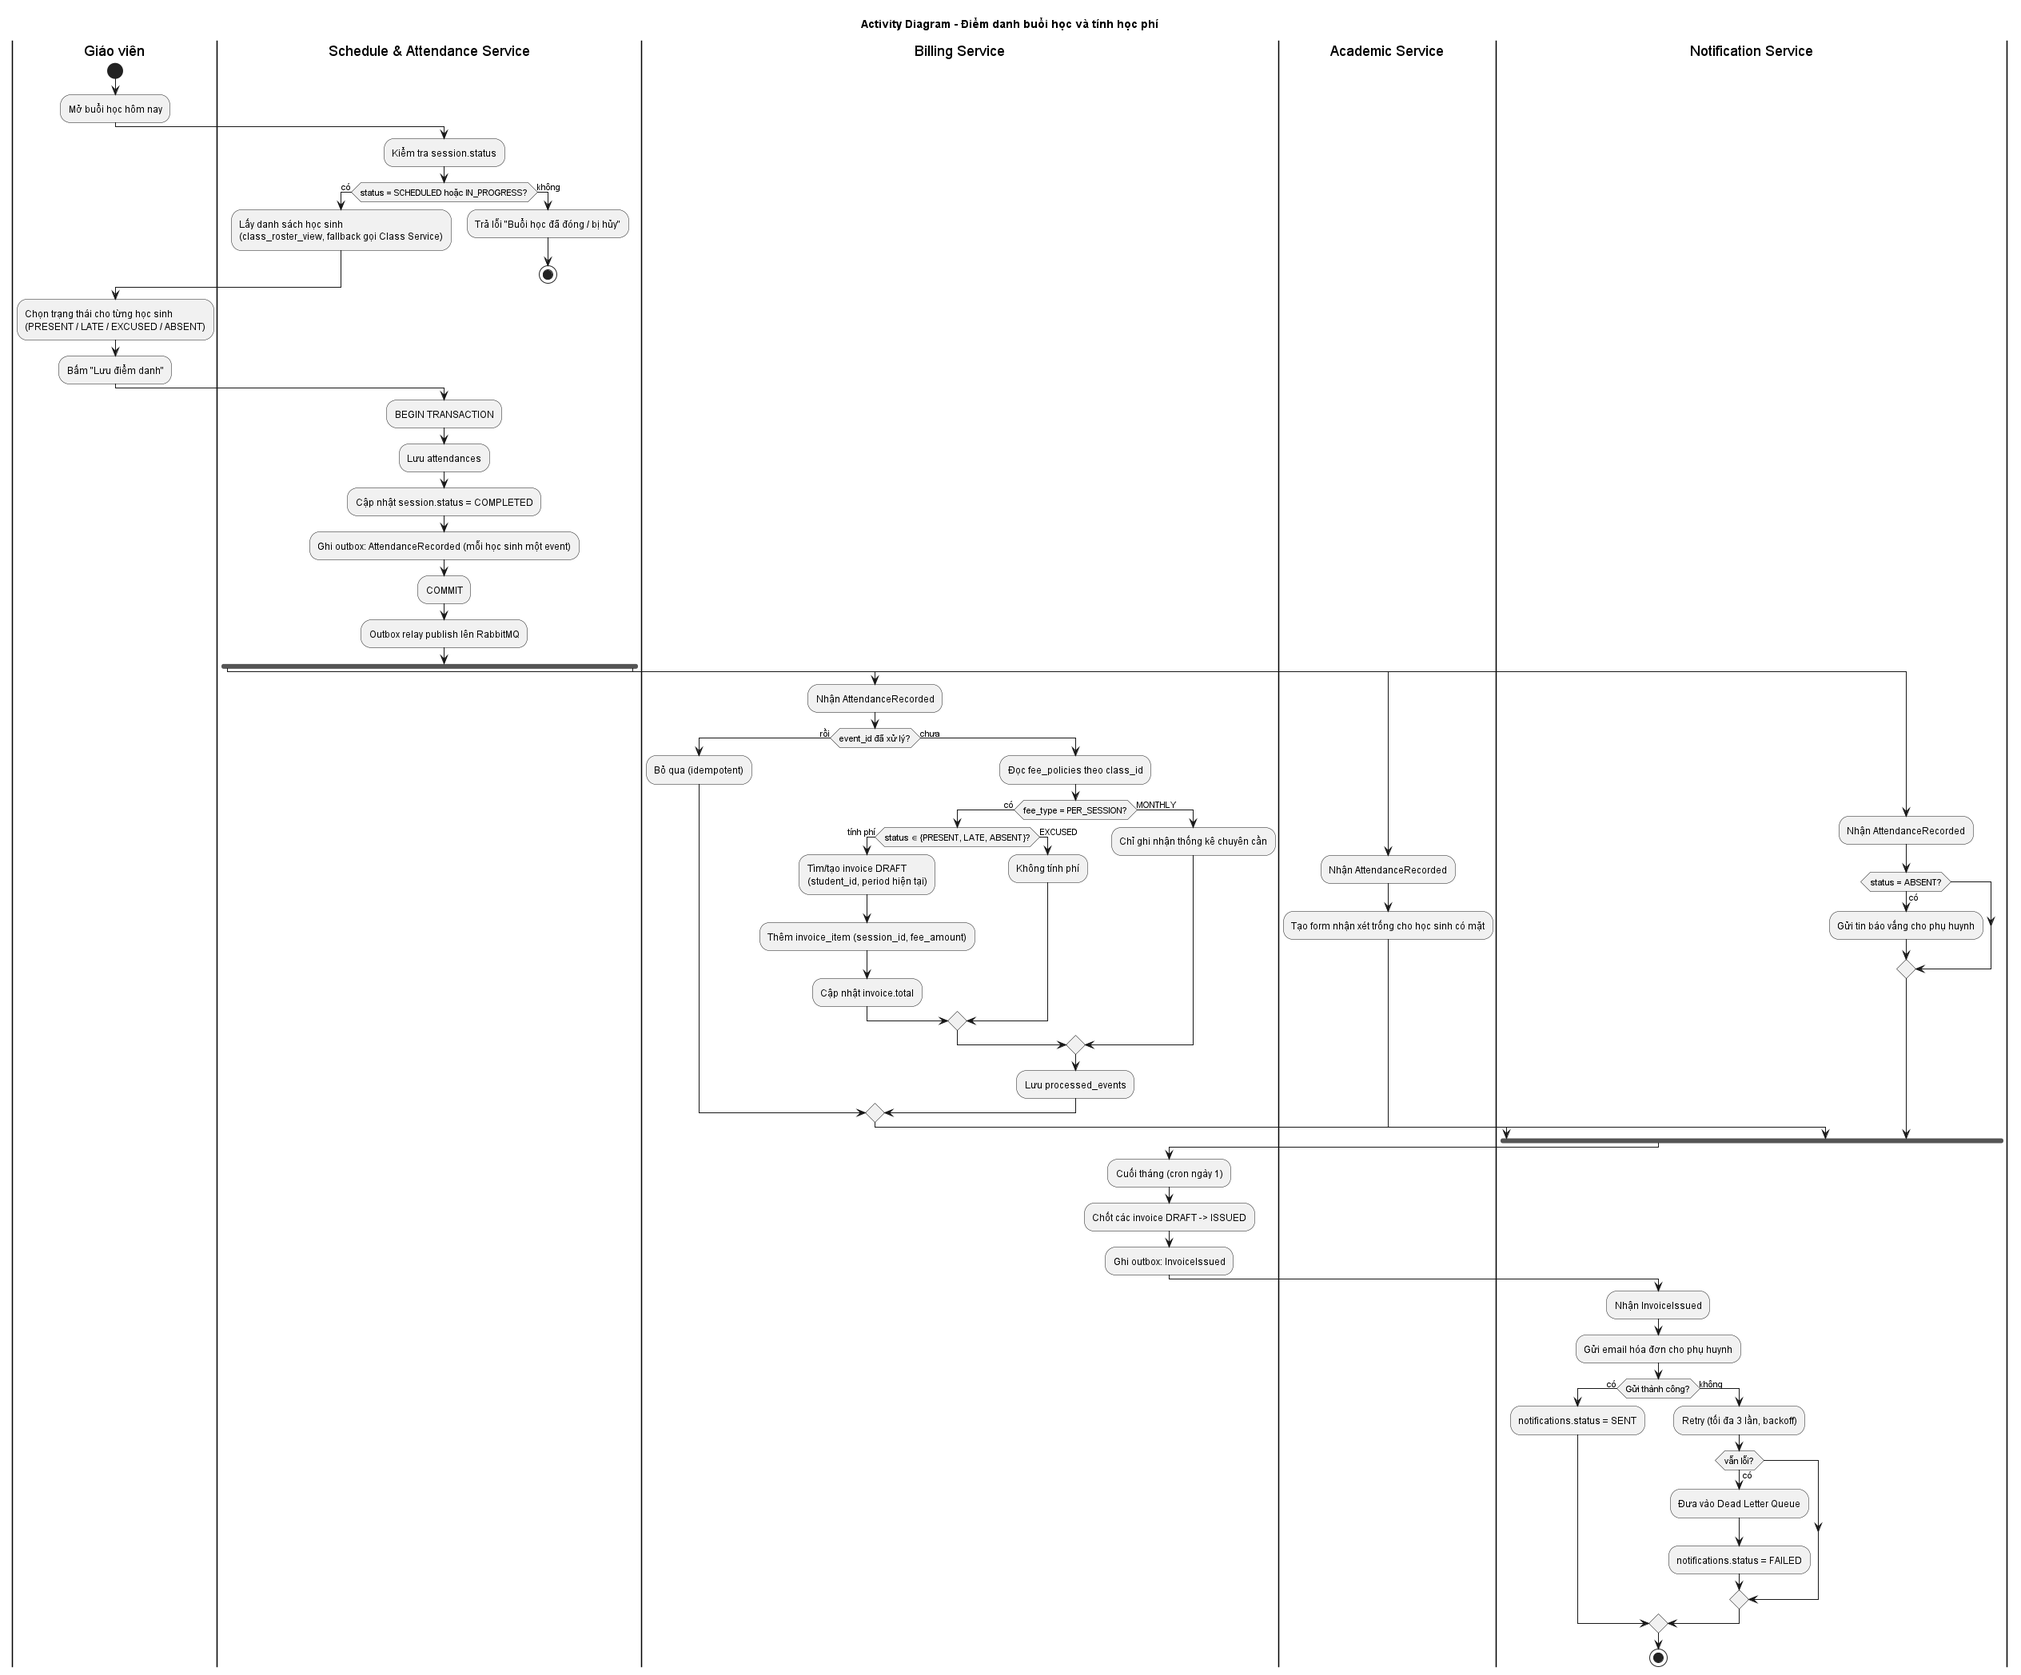
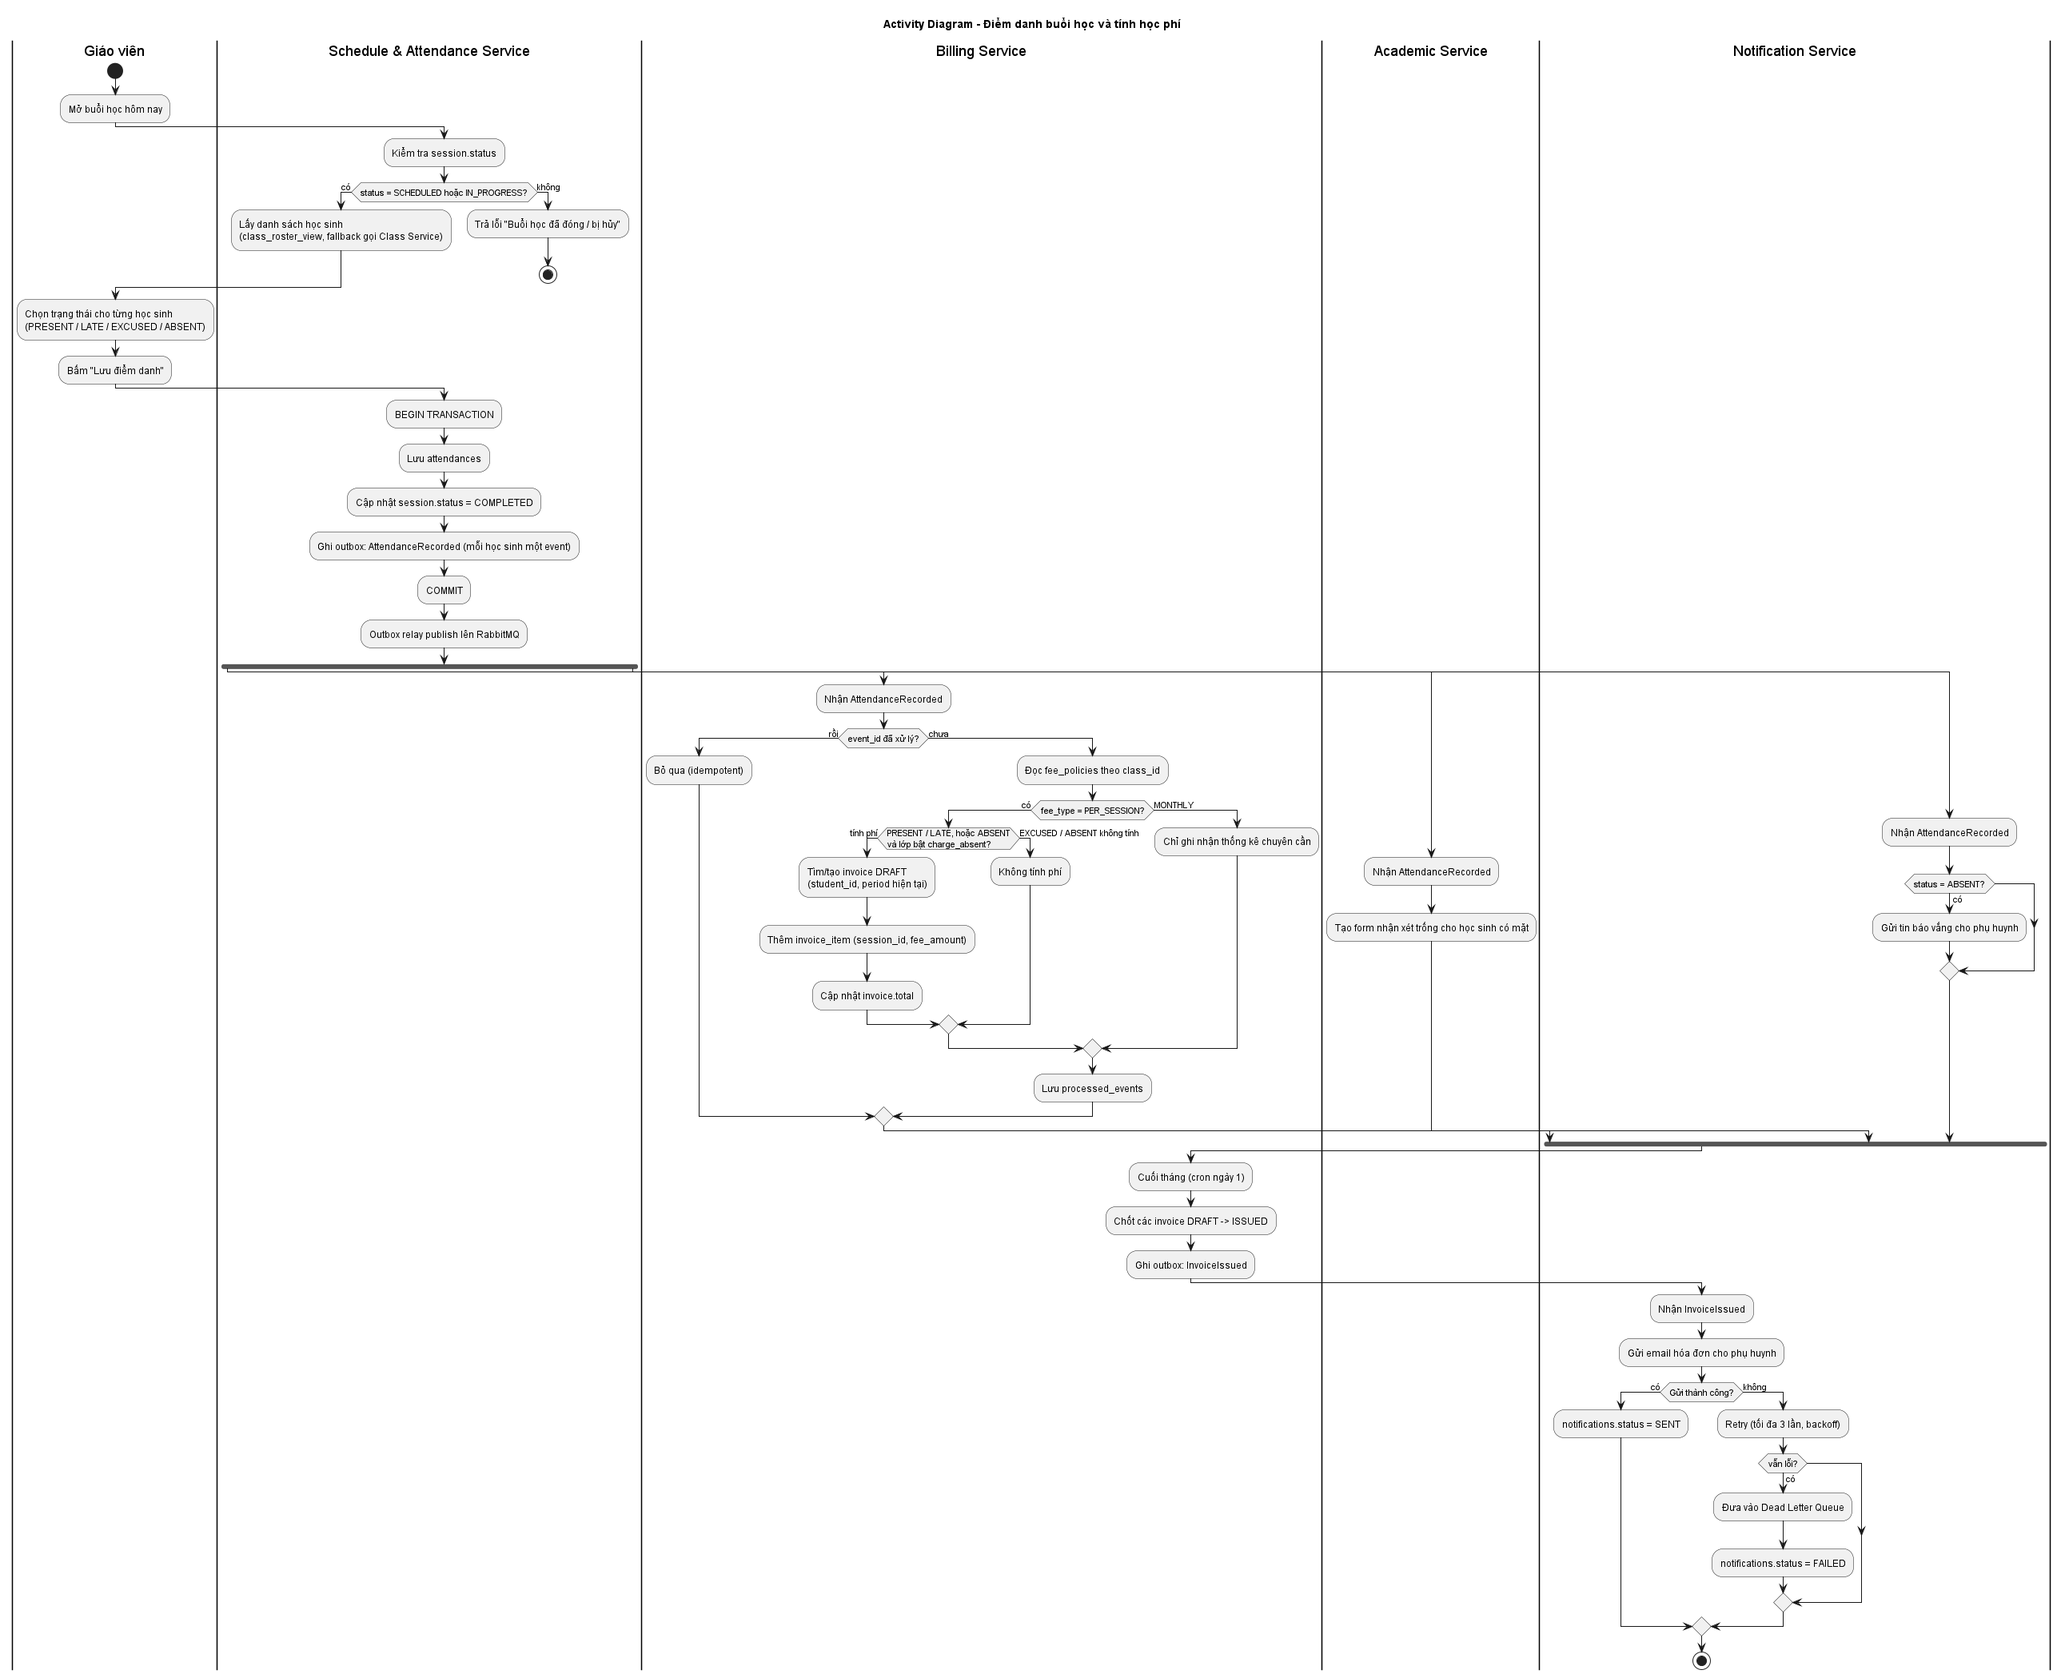
Checkpoint: sync diagrams and service docs with domain decisions
Update ERD, enrollment Saga, state, activity and attendance-billing
diagrams for AWAITING_PAYMENT, Enrollment invoices, Adjustments,
Reversals, per-class absent fees and EnrollmentConfirmed. Billing keeps
a local session_calendar copy for proration, and Schedule publishes
SessionRescheduled. Update service docs, event catalog and glossary.

diff --git a/docs/02-cac-service.md b/docs/02-cac-service.md
@@ -69,7 +69,7 @@
 | POST | `/auth/invitations/{token}/accept` | Kích hoạt tài khoản từ lời mời | Public |
 | POST | `/auth/forgot-password`, `/auth/reset-password` | Quên mật khẩu | Public |
 | GET | `/users/me` | Thông tin người đang đăng nhập | Đã đăng nhập |
-| GET/PATCH | `/users/{id}` | Quản lý người dùng | ADMIN |
+| GET/PATCH | `/users/{id}` | Quản lý người dùng; vô hiệu hóa giáo viên (`DISABLED`) chỉ khi không còn lớp mở (BR-CL-08) | ADMIN |
 | GET | `/.well-known/jwks.json` | Public key để kiểm tra JWT | Nội bộ |
 
 **Phát event:** `UserRegistered`, `InvitationCreated`
@@ -79,7 +79,7 @@
 
 ## 4. Student Service
 
-**Dữ liệu:** `students`, `parents`, `outbox_events`
+**Dữ liệu:** `students`, `parents`, `student_parents` (nhiều phụ huynh, đúng 1 phụ huynh chính), `outbox_events`
 
 | Method | Endpoint | Mô tả | Quyền |
 |---|---|---|---|
@@ -109,13 +109,20 @@
 | PATCH | `/classes/{id}` | Sửa lớp, đổi học phí (áp dụng kỳ sau) | TUTOR, ADMIN |
 | POST | `/classes/{id}/close` | Đóng lớp | TUTOR, ADMIN |
 | GET | `/classes/{id}/students` | Danh sách học sinh đang học | TUTOR; nội bộ |
-| POST | `/classes/{id}/enrollments` | Ghi danh học sinh | TUTOR, ADMIN |
+| POST | `/classes/{id}/enrollments` | Ghi danh học sinh. Trả `201` với `status = ACTIVE` (lớp `PER_SESSION`) hoặc `AWAITING_PAYMENT` (lớp `MONTHLY`); trả `202` với `PENDING` khi Student Service không phản hồi | TUTOR, ADMIN |
 | PATCH | `/classes/{id}/enrollments/{eid}` | Tạm dừng / rút khỏi lớp | TUTOR, ADMIN |
 | GET | `/students/{studentId}/classes` | Các lớp của một học sinh | TUTOR, PARENT, STUDENT |
 
+**Ghi danh lớp `MONTHLY`** ([sơ đồ Saga](diagrams/07-sequence-enrollment-saga.puml)):
+- Ghi danh tạo ở trạng thái `AWAITING_PAYMENT` với `payment_deadline = now + 7 ngày` (BR-CL-07). Học sinh vẫn được vào roster và đi học trong thời gian này.
+- `PENDING`, `AWAITING_PAYMENT` và `ACTIVE` đều tính vào sĩ số khi kiểm tra `max_students` (BR-CL-06).
+- Khi nhận `PaymentReceived` với `invoiceKind = ENROLLMENT` và `invoiceStatus = PAID`, ghi danh chuyển `ACTIVE`.
+- Hết hạn mà chưa thanh toán thì chuyển `WITHDRAWN` với `withdraw_reason = UNPAID` và phát `StudentWithdrawn`.
+
 **Phát event:** `ClassCreated`, `ClassUpdated`, `ClassClosed`, `StudentEnrolled`, `StudentWithdrawn`
-**Nhận event:** `StudentStatusChanged` (tạm dừng hoặc rút ghi danh), `EnrollmentConfirmed`, `EnrollmentSyncFailed` (giao dịch bù trừ)
+**Nhận event:** `StudentStatusChanged` (tạm dừng hoặc rút ghi danh), `EnrollmentConfirmed` (ghi `roster_confirmed_at`), `EnrollmentSyncFailed` (giao dịch bù trừ), `PaymentReceived` (kích hoạt ghi danh `AWAITING_PAYMENT`)
 **Gọi đồng bộ:** student-service
+**Tác vụ định kỳ:** hằng ngày chuyển các ghi danh `AWAITING_PAYMENT` quá `payment_deadline` sang `WITHDRAWN`; đối soát các ghi danh `PENDING`
 
 ---
 
@@ -137,7 +144,7 @@
 | GET | `/students/{id}/attendance?month=` | Lịch sử chuyên cần | TUTOR, PARENT, STUDENT |
 | GET | `/calendar/{token}.ics` | Lịch dạng iCal để đồng bộ Google / Apple Calendar | Token riêng |
 
-**Phát event:** `SessionScheduled`, `SessionCancelled`, `AttendanceRecorded`, `AttendanceCorrected`, `EnrollmentConfirmed`
+**Phát event:** `SessionScheduled`, `SessionCancelled`, `SessionRescheduled` (dời buổi: thay cho cặp hủy + tạo mới), `AttendanceRecorded`, `AttendanceCorrected`, `EnrollmentConfirmed`
 **Nhận event:** `StudentEnrolled`, `StudentWithdrawn`, `ClassClosed`
 **Gọi đồng bộ:** class-service (khi chưa có roster trong `class_roster_view`)
 **Tác vụ định kỳ:** mỗi giờ quét các buổi quá hạn và chuyển sang `MISSED`; mỗi tuần sinh thêm buổi cho lịch lặp
@@ -164,21 +171,31 @@
 
 ## 8. Billing Service
 
-**Dữ liệu:** `fee_policies`, `invoices`, `invoice_items`, `payments`, `processed_events`, `outbox_events`
+**Dữ liệu:** `fee_policies`, `session_calendar`, `invoices`, `invoice_items`, `payments`, `processed_events`, `outbox_events`
+
+`session_calendar` là bản sao cục bộ các buổi học (từ `SessionScheduled` / `SessionCancelled` / `SessionRescheduled`). Billing dùng nó để tính phí `MONTHLY` theo tỉ lệ số buổi khi vào / rời lớp giữa tháng (BR-BI-05, BR-BI-06), không gọi đồng bộ sang Schedule.
 
 | Method | Endpoint | Mô tả | Quyền |
 |---|---|---|---|
-| GET | `/billing/invoices?period=&status=` | Danh sách hóa đơn | TUTOR, ADMIN |
-| GET | `/billing/invoices/{id}` | Chi tiết hóa đơn và các dòng phí | TUTOR, PARENT (con) |
-| GET | `/billing/invoices/{id}/qr` | Mã VietQR chuyển khoản | TUTOR, PARENT |
-| POST | `/billing/invoices/{id}/payments` | Ghi nhận thanh toán thủ công | TUTOR, ADMIN |
-| POST | `/billing/invoices/{id}/void` | Hủy hóa đơn | TUTOR, ADMIN |
+| GET | `/billing/invoices?period=&status=&kind=` | Danh sách hóa đơn (`kind` = `MONTHLY` / `ENROLLMENT`) | TUTOR, ADMIN |
+| GET | `/billing/invoices/{id}` | Chi tiết hóa đơn và các dòng phí (FEE, ADJUSTMENT) | TUTOR, ADMIN, Payer |
+| GET | `/billing/enrollments/{enrollmentId}/invoice` | Hóa đơn ghi danh của một ghi danh `MONTHLY` | TUTOR, ADMIN, Payer |
+| GET | `/billing/invoices/{id}/qr` | Mã VietQR chuyển khoản | TUTOR, Payer |
+| POST | `/billing/invoices/{id}/payments` | Ghi nhận thanh toán thủ công (không vượt số còn nợ) | TUTOR, ADMIN |
+| POST | `/billing/payments/{id}/reversal` | Tạo bút toán đảo cho khoản ghi sai | TUTOR, ADMIN |
+| POST | `/billing/invoices/{id}/void` | Hủy hóa đơn và phát hành hóa đơn thay thế | TUTOR, ADMIN |
 | GET | `/billing/students/{id}/balance` | Công nợ học sinh | TUTOR, PARENT |
 | GET | `/billing/reports/revenue?from=&to=` | Báo cáo doanh thu | TUTOR, ADMIN |
 | POST | `/webhooks/payments/{provider}` | Nhận webhook từ cổng thanh toán / ngân hàng | Chữ ký webhook |
 
-**Phát event:** `InvoiceIssued` (hóa đơn tháng và hóa đơn ghi danh), `PaymentReceived`, `InvoiceOverdue`
-**Nhận event:** `StudentCreated`, `StudentUpdated`, `StudentStatusChanged`, `ClassCreated`, `ClassUpdated`, `StudentEnrolled`, `AttendanceRecorded`, `AttendanceCorrected`, `SessionCancelled`
+**Hai loại hóa đơn:**
+- **Hóa đơn tháng** (`MONTHLY`): `DRAFT` trong tháng, chốt ngày 1, hạn ngày 10.
+- **Hóa đơn ghi danh** (`ENROLLMENT`): tạo khi nhận `StudentEnrolled` của lớp `MONTHLY`, `ISSUED` ngay với phí tháng đầu theo tỉ lệ, hạn 7 ngày (BR-BI-06). Hóa đơn tháng sau không lặp lại dòng phí đã thu ở đây.
+
+Hóa đơn đã `ISSUED` không bao giờ bị sửa. Sửa sai được ghi thành dòng `ADJUSTMENT` trên hóa đơn `DRAFT` kế tiếp ([ADR-0002](adr/0002-immutable-invoices-with-adjustments.md)). Trạng thái hóa đơn luôn suy ra từ các khoản `PAYMENT` và `REVERSAL`.
+
+**Phát event:** `InvoiceIssued` (kèm `kind`), `PaymentReceived` (kèm `invoiceKind`, `enrollmentId`, `invoiceStatus`), `InvoiceOverdue`
+**Nhận event:** `StudentCreated`, `StudentUpdated`, `StudentStatusChanged`, `ClassCreated`, `ClassUpdated`, `StudentEnrolled`, `StudentWithdrawn`, `AttendanceRecorded`, `AttendanceCorrected`, `SessionScheduled`, `SessionCancelled`, `SessionRescheduled`
 **Tác vụ định kỳ:** 00:00 ngày 1 chốt hóa đơn; 08:00 hằng ngày đánh dấu hóa đơn quá hạn và gửi nhắc
 
 ---
@@ -194,7 +211,7 @@
 | GET/PUT | `/notifications/preferences` | Chọn kênh, bật / tắt từng loại thông báo | Đã đăng nhập |
 | POST | `/notifications/devices` | Đăng ký push token (FCM) | Đã đăng nhập |
 
-**Nhận event:** `UserRegistered`, `InvitationCreated`, `EnrollmentConfirmed`, `SessionScheduled`, `SessionCancelled`, `AttendanceRecorded` (khi vắng), `GradeRecorded`, `InvoiceIssued`, `InvoiceOverdue`, `PaymentReceived`, `MonthlyReportGenerated`
+**Nhận event:** `UserRegistered`, `InvitationCreated`, `EnrollmentConfirmed`, `SessionScheduled`, `SessionCancelled`, `SessionRescheduled`, `AttendanceRecorded` (khi vắng), `GradeRecorded`, `InvoiceIssued`, `InvoiceOverdue`, `PaymentReceived`, `MonthlyReportGenerated`
 **Cách thiết kế:** mỗi kênh gửi là một *adapter* (`EmailChannel`, `SmsChannel`, `ZaloChannel`, `PushChannel`) cài đặt chung một interface `NotificationChannel`. Nhờ vậy có thể đổi nhà cung cấp mà không sửa logic nghiệp vụ.
 
 ---

diff --git a/docs/01-nghiep-vu.md b/docs/01-nghiep-vu.md
@@ -18,7 +18,7 @@
 |---|---|---|
 | `ADMIN` | Chủ trung tâm | Toàn bộ dữ liệu, báo cáo doanh thu, quản lý giáo viên |
 | `TUTOR` | Giáo viên | Chỉ học sinh, lớp, lịch, hóa đơn do mình quản lý (`tutor_id = mình`) |
-| `PARENT` | Phụ huynh | Chỉ dữ liệu của con mình (`students.parent_id`) |
+| `PARENT` | Phụ huynh | Chỉ dữ liệu của con mình (bảng `student_parents`); chỉ phụ huynh chính xem học phí |
 | `STUDENT` | Học sinh | Chỉ dữ liệu của bản thân; chỉ xem học phí khi đã đủ 18 tuổi và là người thanh toán (Payer) của chính mình |
 | `SYSTEM` | Tác vụ định kỳ (cron) | Chốt hóa đơn, nhắc lịch, đánh dấu quá hạn |
 
@@ -160,21 +160,24 @@
 
 | Event | Service phát | Payload chính | Service nhận |
 |---|---|---|---|
-| `UserRegistered` | Identity | userId, email, role | Notification |
+| `UserRegistered` | Identity | userId, email, role | Student, Notification |
+| `InvitationCreated` | Identity | invitationId, userId, email, expiresAt | Notification |
 | `StudentCreated` / `StudentUpdated` | Student | studentId, fullName, tutorId, parentContact | Billing, Notification |
 | `StudentStatusChanged` | Student | studentId, from, to | Class, Billing |
 | `ClassCreated` / `ClassUpdated` | Class | classId, tutorId, feeType, feeAmount, effectiveFrom | Billing, Schedule |
 | `ClassClosed` | Class | classId | Schedule |
-| `StudentEnrolled` | Class | classId, studentId, studentName | Schedule, Billing |
-| `EnrollmentConfirmed` | Schedule | classId, studentId | Class, Notification (gửi email chào mừng, BR-NO-01) |
-| `StudentWithdrawn` | Class | classId, studentId, reason | Schedule, Billing |
-| `SessionScheduled` | Schedule | sessionId, classId, startAt, studentIds | Notification |
+| `StudentEnrolled` | Class | enrollmentId, classId, studentId, studentName, feeType, status, joinedAt | Schedule, Billing (lớp `MONTHLY` → hóa đơn ghi danh) |
+| `EnrollmentConfirmed` | Schedule | enrollmentId, classId, studentId | Class, Notification (gửi email chào mừng, BR-NO-01) |
+| `EnrollmentSyncFailed` | Schedule | enrollmentId, classId, studentId, error | Class (bù trừ → `REJECTED`) |
+| `StudentWithdrawn` | Class | enrollmentId, classId, studentId, reason (`REQUESTED`, `UNPAID`, `CLASS_CLOSED`, `STUDENT_STATUS`, `SYNC_FAILED`) | Schedule, Billing |
+| `SessionScheduled` | Schedule | sessionId, classId, startAt, studentIds | Billing (bản sao `session_calendar` để tính tỉ lệ phí), Notification |
 | `SessionCancelled` | Schedule | sessionId, reason, cancelledBy | Billing, Notification |
+| `SessionRescheduled` | Schedule | oldSessionId, newSessionId, classId, newStartAt, studentIds | Billing (cập nhật `session_calendar`), Notification (1 thông báo "dời buổi") |
 | `AttendanceRecorded` | Schedule | sessionId, studentId, classId, status, date | Billing, Academic, Notification |
 | `AttendanceCorrected` | Schedule | sessionId, studentId, oldStatus, newStatus | Billing |
 | `GradeRecorded` | Academic | studentId, classId, type, score | Notification |
-| `InvoiceIssued` | Billing | invoiceId, studentId, period, total, dueDate | Notification |
-| `PaymentReceived` | Billing | invoiceId, amount, method | Notification |
+| `InvoiceIssued` | Billing | invoiceId, kind, studentId, enrollmentId?, period, total, dueDate | Notification |
+| `PaymentReceived` | Billing | invoiceId, invoiceKind, enrollmentId?, amount, method, invoiceStatus | Class (kích hoạt ghi danh `AWAITING_PAYMENT`), Notification |
 | `InvoiceOverdue` | Billing | invoiceId, daysOverdue | Notification |
 
 Mọi event đều có phần chung (envelope):

diff --git a/GLOSSARY.md b/GLOSSARY.md
@@ -65,7 +65,7 @@ The Enrollment status of a Student in a Monthly-fee Class who has not yet paid t
 _Avoid_: Unpaid enrollment, deposit pending
 
 **Roster**:
-The Students with an `ACTIVE` Enrollment in a Class, used to know who is expected at its Sessions.
+The Students with an `ACTIVE` or `AWAITING_PAYMENT` Enrollment in a Class, used to know who is expected at its Sessions. Awaiting-payment Students attend during their 7-day window.
 _Avoid_: Class list, attendance list
 
 ### Attendance
